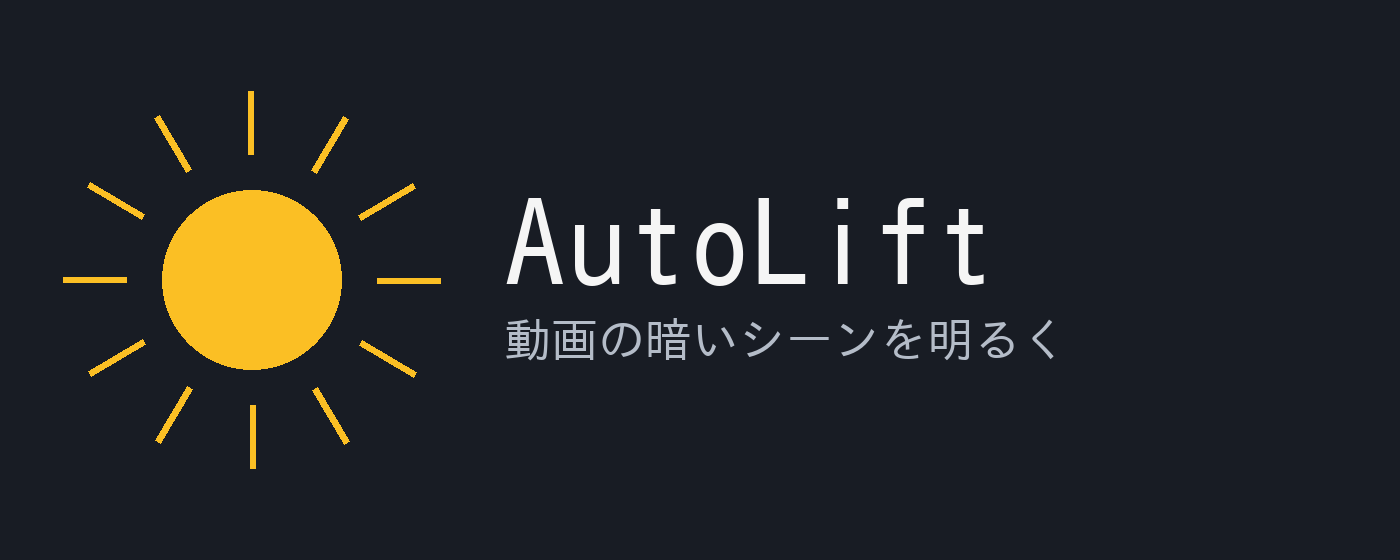
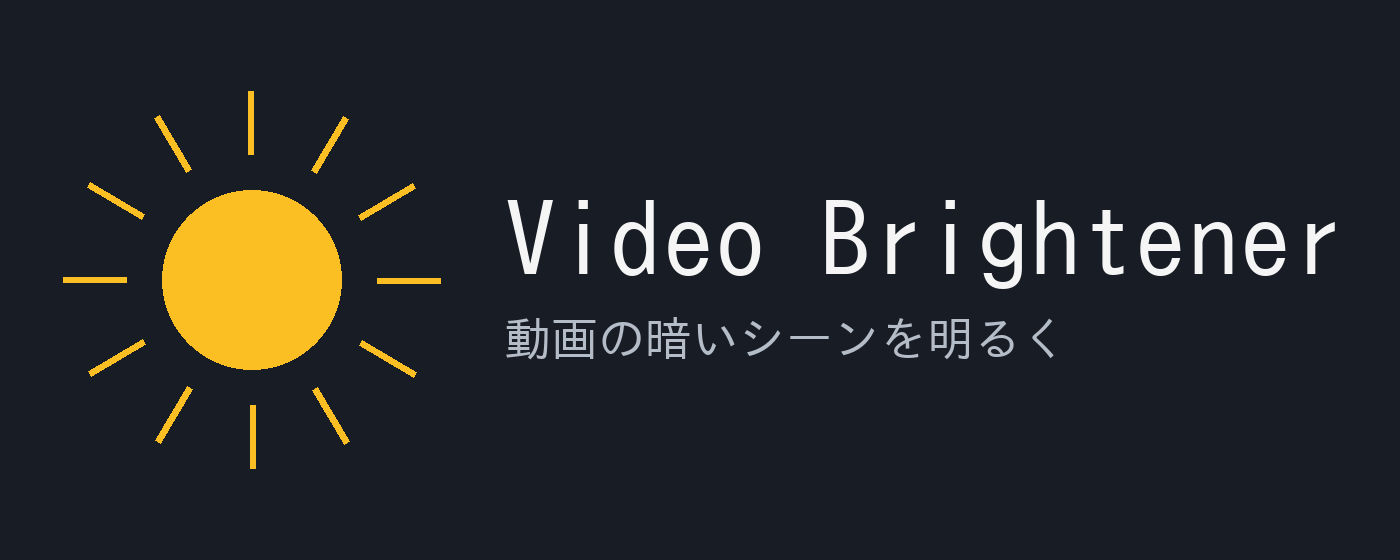
製品名をAutoLift → Video Brightenerに変更
Phase 1段階で「Auto」が虚偽広告になる懸念と、日本人主戦場(U-NEXT/ABEMA)での
検索性を考慮して改名。内部コードネーム/作業ディレクトリは引き続きautolift。

- manifest.json / popup / store-assetsの全テキストを更新
- promo画像のタイトル自動フィット処理を追加
- パッケージ名を video-brightener-v0.2.0.zip に変更

diff --git a/scripts/package.py b/scripts/package.py
@@ -21,7 +21,7 @@ INCLUDE = [
 def main() -> None:
     manifest = json.loads((ROOT / "manifest.json").read_text())
     version = manifest["version"]
-    out = ROOT / f"autolift-v{version}.zip"
+    out = ROOT / f"video-brightener-v{version}.zip"
 
     with zipfile.ZipFile(out, "w", compression=zipfile.ZIP_DEFLATED) as z:
         for rel in INCLUDE:

diff --git a/PRIVACY.md b/PRIVACY.md
@@ -1,10 +1,10 @@
-# AutoLift プライバシーポリシー
+# Video Brightener プライバシーポリシー
 
 最終更新: 2026-05-08
 
 ## 概要
 
-AutoLift（以下「本拡張」）は、対応サイトで再生される動画にガンマ補正を適用し、暗いシーンを見やすくするChromeブラウザ拡張機能です。本拡張は、利用者のプライバシーを最優先します。
+Video Brightener（以下「本拡張」）は、対応サイトで再生される動画にガンマ補正を適用し、暗いシーンを見やすくするChromeブラウザ拡張機能です。本拡張は、利用者のプライバシーを最優先します。
 
 ## 収集する情報
 

diff --git a/README.md b/README.md
@@ -1,4 +1,4 @@
-# AutoLift
+# Video Brightener
 
 動画の暗いシーンを明るく補正するChrome拡張機能。
 
